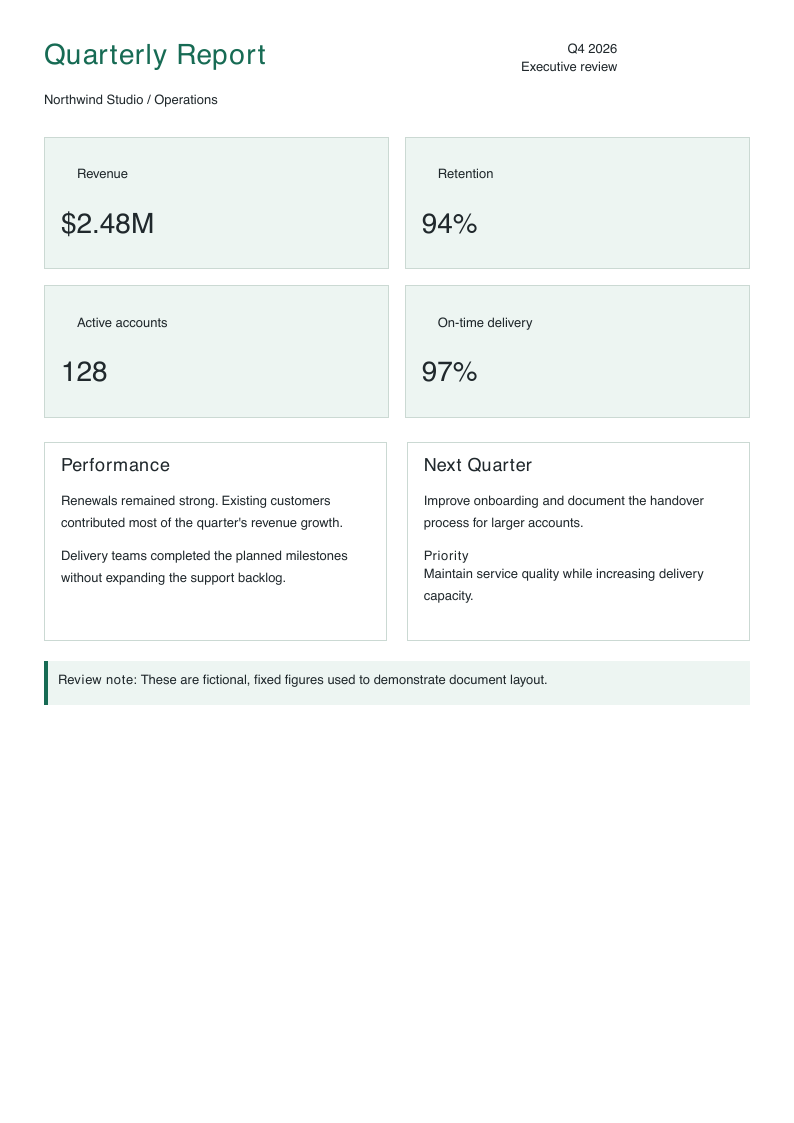
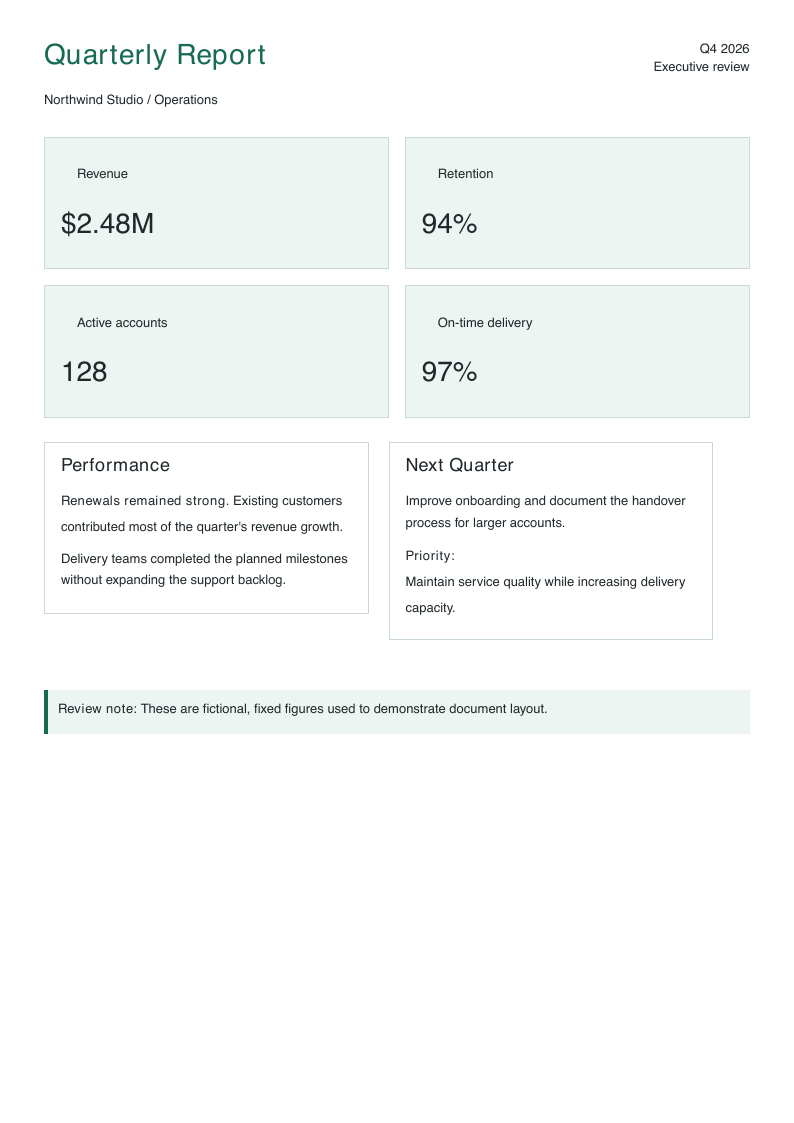
fix(layout): correct inline wrapping, line breaks and nested flex widths

diff --git a/src/pdf/render-node.js b/src/pdf/render-node.js
@@ -237,8 +237,16 @@ function renderInlineRuns(runs, ctx, { baseStyles, align, lineGap, tag }) {
   const lines = [];
   let current = { runs: [], width: 0, height: 0 };
 
-  for (const run of runs) {
+  const pendingRuns = [...runs];
+  for (let runIndex = 0; runIndex < pendingRuns.length; runIndex++) {
+    const run = pendingRuns[runIndex];
     const s = { ...baseStyles, ...(run.styles || {}) };
+    if (run.isLineBreak) {
+      current.height = Math.max(current.height, lineHeightValue(s, styleNumber(s, 'font-size', BASE_PT), tag));
+      lines.push(current);
+      current = { runs: [], width: 0, height: 0 };
+      continue;
+    }
     const inlineBox = runHasInlineBoxStyles(run.styles || {}, baseStyles);
     const size = styleNumber(s, 'font-size', BASE_PT);
     const letterSpacing = styleNumber(s, 'letter-spacing', 0, { baseSize: size });
@@ -271,6 +279,38 @@ function renderInlineRuns(runs, ctx, { baseStyles, align, lineGap, tag }) {
     const glyphSize = isSubSup ? size * 0.75 : size;
     const vShift = run.superscript ? -size * 0.33 : run.subscript ? size * 0.12 : 0;
     selectFontForInline(doc, s, !!run.bold, !!run.italic, glyphSize, text);
+    // Split with the same font and width used for drawing, not PDFKit's implicit wrapping.
+    if (!inlineBox && !run.isEmoji && shouldCollapseWhitespace(s) && s['white-space'] !== 'nowrap') {
+      const available = Math.max(0, contentWidth - current.width);
+      const widthOf = (value) => doc.widthOfString(value, { characterSpacing: letterSpacing }) +
+        wordSpacing * (value.match(/ /g) || []).length;
+      if (widthOf(text) > available && text.length > 1) {
+        let end = 0;
+        let wordEnd = 0;
+        for (const character of text) {
+          const next = end + character.length;
+          if (widthOf(text.slice(0, next)) > available) break;
+          end = next;
+          if (/\s/.test(character)) wordEnd = end;
+        }
+        if (!wordEnd && current.width > 0) {
+          lines.push(current);
+          current = { runs: [], width: 0, height: 0 };
+          pendingRuns[runIndex] = { ...run, text: text.replace(/^ +/, '') };
+          runIndex--;
+          continue;
+        }
+        end = wordEnd || end || Array.from(text)[0].length;
+        if (end < text.length) {
+          pendingRuns.splice(runIndex, 1,
+            { ...run, text: text.slice(0, end).replace(/ +$/, '') },
+            { ...run, text: '\n', isLineBreak: true },
+            { ...run, text: text.slice(end).replace(/^ +/, '') });
+          runIndex--;
+          continue;
+        }
+      }
+    }
     // Emoji runs draw a Type 3 color glyph; width comes from the emoji font's
     // advance, baseline from the surrounding text font's ascender.
     const emojiInfo = run.isEmoji && doc._emoji ? doc._emoji.lookup(run.grapheme) : null;
@@ -398,7 +438,12 @@ function renderInlineRuns(runs, ctx, { baseStyles, align, lineGap, tag }) {
             enableInternalAnchors: ctx?.options?.enableInternalAnchors,
           });
           selectFontForInline(doc, item.styles, !!item.run.bold, !!item.run.italic, item.glyphSize ?? item.size, item.run.text);
-          doc.text(item.run.text || '', x + item.border + item.padL, textY + (item.vShift || 0), { lineGap: 0, ...linkOpts });
+          doc.text(item.run.text || '', x + item.border + item.padL, textY + (item.vShift || 0), {
+            lineGap: 0, lineBreak: false,
+            characterSpacing: styleNumber(item.styles, 'letter-spacing', 0, { baseSize: item.size }),
+            wordSpacing: styleNumber(item.styles, 'word-spacing', 0, { baseSize: item.size }),
+            ...linkOpts,
+          });
         }
       }
 
@@ -448,6 +493,7 @@ async function renderNode(node, ctx) {
     const key =
       layout.contentWidth().toFixed(2) +
       '|' + mh +
+      '|' + (ctx.allocatedFlexWidth ? 1 : 0) +
       '|' + (layout.atStartOfPage ? 1 : 0) +
       '|' + (layout.pendingBottomMargin || 0);
     const hit = byKey.get(key);
@@ -474,7 +520,7 @@ async function renderNodeImpl(node, ctx) {
   const measureOnly = !!ctx?.measureOnly;
   const debugInline = process.env.HTML_TO_PDF_DEBUG === '1';
   const minHeight = Number.isFinite(ctx?.minHeight) ? ctx.minHeight : null;
-  const childCtx = minHeight != null ? { ...ctx, minHeight: null } : ctx;
+  const childCtx = { ...ctx, minHeight: null, allocatedFlexWidth: false };
   if (!node) return;
 
   if (node.type === 'text') {
@@ -1086,7 +1132,7 @@ async function renderNodeImpl(node, ctx) {
     // Honour an explicit width (px/%/mm/...) and horizontal margin auto, so e.g.
     // `width: 200mm; margin: 0 auto` produces a centred fixed-width block instead
     // of always filling the content area. Width-less blocks keep prior behaviour.
-    const explicitWidth = styleNumber(styles, 'width', null, { percentBase: availWidth });
+    const explicitWidth = ctx.allocatedFlexWidth ? null : styleNumber(styles, 'width', null, { percentBase: availWidth });
     let blockX = layout.x;
     let blockWidth = availWidth;
     if (explicitWidth != null && explicitWidth >= 0) {
@@ -1142,23 +1188,10 @@ async function renderNodeImpl(node, ctx) {
       if (inlineOnly) {
         const size = styleNumber(styles, 'font-size', BASE_PT);
         const gap = lineGapFor(size, styles, tag);
-        const plain = gatherPlainText(node);
-        selectFontForInline(doc, styles, false, false, size, plain);
-        const letterSpacing = styleNumber(styles, 'letter-spacing', 0, { baseSize: size });
-        const wordSpacing = styleNumber(styles, 'word-spacing', 0, { baseSize: size });
-        const spaces = (plain.match(/ /g) || []).length;
-        const textWidth = doc.widthOfString(plain, { characterSpacing: letterSpacing }) + wordSpacing * spaces;
-        const lineHeight = lineHeightValue(styles, size, tag);
-        const singleLine = !plain.includes('\n') && textWidth <= contentWidth;
-        measuredContent = singleLine
-          ? lineHeight
-          : doc.heightOfString(plain, {
-              width: contentWidth,
-              align: textAlign(styles),
-              lineGap: gap,
-              characterSpacing: letterSpacing,
-              wordSpacing,
-            });
+        measuredContent = renderInlineRunsAt(normalizeRuns(inlineRuns(node), shouldCollapseWhitespace(styles)), ctx, {
+          baseStyles: styles, align, lineGap: gap, tag,
+          x: contentX, y: contentStartY, width: contentWidth, measureOnly: true,
+        });
       } else if (isFlex || isGrid) {
         const measureChildren = elementChildren(node);
         if (isFlex) {

diff --git a/test/inline-layout.test.js b/test/inline-layout.test.js
@@ -1,0 +1,52 @@
+const assert = require('assert');
+const fs = require('fs');
+const PDFDocument = require('pdfkit');
+const { renderPdfFromHtml } = require('../src');
+
+async function run() {
+  const calls = [];
+  const rectangles = [];
+  const originalText = PDFDocument.prototype.text;
+  const originalRect = PDFDocument.prototype.rect;
+  PDFDocument.prototype.text = function (text, x, y, options) {
+    calls.push({ text: String(text), x: typeof x === 'number' ? x : this.x,
+      y: typeof y === 'number' ? y : this.y, width: this.widthOfString(String(text)), font: this._font.name });
+    return originalText.call(this, text, x, y, options);
+  };
+  PDFDocument.prototype.rect = function (x, y, width, height) {
+    rectangles.push({ x, y, width, height });
+    return originalRect.call(this, x, y, width, height);
+  };
+  try {
+    const pdf = await renderPdfFromHtml(`
+      <div>First<br>Second<br><strong>Third</strong></div>
+      <div style="width:120px"><p><strong>Bold introduction</strong> followed by several ordinary words that must wrap inside this narrow column.</p></div>
+      <div>After</div>
+      <div style="display:flex;width:400px;gap:20px">
+        <div style="width:46%"><div style="border:1px solid black;padding:8px"><p>Left panel</p></div></div>
+        <div style="width:46%"><div style="border:1px solid black;padding:8px"><p>Right panel</p></div></div>
+      </div>
+      <div>EmptyStart<br><br>EmptyEnd</div>
+    `, { autoResolveFonts: false, autoResolveEmojiFont: false });
+    if (process.env.INLINE_LAYOUT_PREVIEW) fs.writeFileSync(process.env.INLINE_LAYOUT_PREVIEW, pdf);
+  } finally {
+    PDFDocument.prototype.text = originalText;
+    PDFDocument.prototype.rect = originalRect;
+  }
+  const first = calls.find(call => call.text === 'First');
+  const second = calls.find(call => call.text === 'Second');
+  const third = calls.find(call => call.text === 'Third');
+  assert.ok(first && second && third && first.y < second.y && second.y < third.y, 'br must advance each baseline');
+  assert.ok(third.font.includes('Bold'), 'explicit breaks must preserve strong styling');
+  const emptyStart = calls.find(call => call.text === 'EmptyStart');
+  const emptyEnd = calls.find(call => call.text === 'EmptyEnd');
+  assert.ok(emptyEnd.y - emptyStart.y >= 2 * (second.y - first.y) - 0.1, 'consecutive breaks must retain the empty line');
+  const after = calls.find(call => call.text === 'After');
+  const wrapped = calls.filter(call => call.y > third.y && call.y < after.y);
+  assert.ok(new Set(wrapped.map(call => call.y)).size >= 3, 'mixed text must wrap into measured lines');
+  for (const call of wrapped) assert.ok(call.x + call.width <= first.x + 90 + 0.1, 'mixed text must remain inside 120px column');
+  assert.ok(after.y > Math.max(...wrapped.map(call => call.y)) + 8, 'following block must clear wrapped content');
+  assert.ok(rectangles.filter(rect => Math.abs(rect.width - 138) < 1).length >= 2, 'nested panels must use full allocated 46% flex width');
+}
+
+module.exports = { name: 'inline-layout', run };

diff --git a/examples/report.html b/examples/report.html
@@ -10,13 +10,14 @@ h2 { font-size: 18px; font-weight: bold; margin: 0 0 12px; }
 .grid { display: grid; grid-template-columns: 1fr 1fr; gap: 16px; margin-bottom: 24px; }
 .metric { border: 1px solid #cbd9d3; padding: 16px; background: #edf5f2; }
 .value { font-size: 28px; font-weight: bold; margin-top: 10px; }
-.columns { display: grid; grid-template-columns: 1fr 1fr; gap: 20px; }
+.columns { display: flex; gap: 20px; }
+.column { width: 46%; }
 .panel { padding: 16px; border: 1px solid #cbd9d3; margin-bottom: 18px; }
 p { line-height: 1.5; margin: 0 0 12px; }
 .note { padding: 14px; border-left: 4px solid #176b54; background: #edf5f2; margin-top: 20px; }
 </style></head><body>
 <div class="header"><div class="title"><h1>Quarterly Report</h1><div>Northwind Studio / Operations</div></div><div class="period"><strong>Q4 2026</strong><br>Executive review</div></div>
 <div class="grid"><div class="metric">Revenue<div class="value">$2.48M</div></div><div class="metric">Retention<div class="value">94%</div></div><div class="metric">Active accounts<div class="value">128</div></div><div class="metric">On-time delivery<div class="value">97%</div></div></div>
-<div class="columns"><div class="panel"><h2>Performance</h2><p>Renewals remained strong. Existing customers contributed most of the quarter's revenue growth.</p><p>Delivery teams completed the planned milestones without expanding the support backlog.</p></div><div class="panel"><h2>Next Quarter</h2><p>Improve onboarding and document the handover process for larger accounts.</p><div><strong>Priority</strong></div><p>Maintain service quality while increasing delivery capacity.</p></div></div>
+<div class="columns"><div class="column"><div class="panel"><h2>Performance</h2><p><strong>Renewals remained strong.</strong> Existing customers contributed most of the quarter's revenue growth.</p><p>Delivery teams completed the planned milestones without expanding the support backlog.</p></div></div><div class="column"><div class="panel"><h2>Next Quarter</h2><p>Improve onboarding and document the handover process for larger accounts.</p><p><strong>Priority:</strong><br>Maintain service quality while increasing delivery capacity.</p></div></div></div>
 <div class="note"><strong>Review note:</strong> These are fictional, fixed figures used to demonstrate document layout.</div>
 </body></html>

diff --git a/src/pdf/render-flex.js b/src/pdf/render-flex.js
@@ -207,7 +207,7 @@ async function renderFlexRow(children, ctx, { startX, startY, width, gap, rowGap
       measureOnly: true,
     });
     measureLayout.atStartOfPage = false;
-    await renderNode(child, { doc, layout: measureLayout, options: ctx.options, measureOnly: true });
+    await renderNode(child, { doc, layout: measureLayout, options: ctx.options, measureOnly: true, allocatedFlexWidth: true });
     return Math.max(0, measureLayout.y - top);
   };
 
@@ -255,7 +255,7 @@ async function renderFlexRow(children, ctx, { startX, startY, width, gap, rowGap
         measureOnly,
       });
       childLayout.atStartOfPage = false;
-      await renderNode(child, { doc, layout: childLayout, options: ctx.options, measureOnly });
+      await renderNode(child, { doc, layout: childLayout, options: ctx.options, measureOnly, allocatedFlexWidth: true });
       const childHeight = childLayout.y - rowY;
       if (debugInline && child?.tag === 'div') {
         console.log('[flex-item]', {
@@ -358,7 +358,7 @@ async function renderFlexRow(children, ctx, { startX, startY, width, gap, rowGap
     });
     childLayout.atStartOfPage = false;
     const minH = (!measureOnly && align === 'stretch' && maxHeight > 0) ? maxHeight : undefined;
-    await renderNode(child, { doc, layout: childLayout, options: ctx.options, measureOnly, minHeight: minH });
+    await renderNode(child, { doc, layout: childLayout, options: ctx.options, measureOnly, minHeight: minH, allocatedFlexWidth: true });
     if (!needsTwoPass || measureOnly) {
       maxHeight = Math.max(maxHeight, childLayout.y - startY);
     }

diff --git a/test/run-tests.js b/test/run-tests.js
@@ -7,6 +7,7 @@ const tests = [
   require('./images-edge.test'),
   require('./layout.test'),
   require('./layout-edge.test'),
+  require('./inline-layout.test'),
   require('./css.test'),
   require('./blockquote.test'),
   require('./validation.test'),

diff --git a/examples/README.md b/examples/README.md
@@ -34,10 +34,9 @@ are **not approved regression-test baselines** or byte-identical PDF guarantees.
 
 ## Current Layout Caveats
 
-The examples use block elements for address/total lines and grid for framed
-columns. Initial review exposed differences with `<br>` in generic blocks,
-mixed-style inline text wrapping, and frames nested in flex columns. Those
-cases must be tested separately rather than accepted as correct visual baselines.
+The report exercises mixed-style inline wrapping, explicit `<br>` breaks and
+frames nested in percentage-width flex columns. These cases also have targeted
+coordinate-based regression tests in `test/inline-layout.test.js`.
 Bold text also needs dedicated checking in the standard-font configuration.
 The `<br>` table-cell and header cases here remain useful checks.
 
